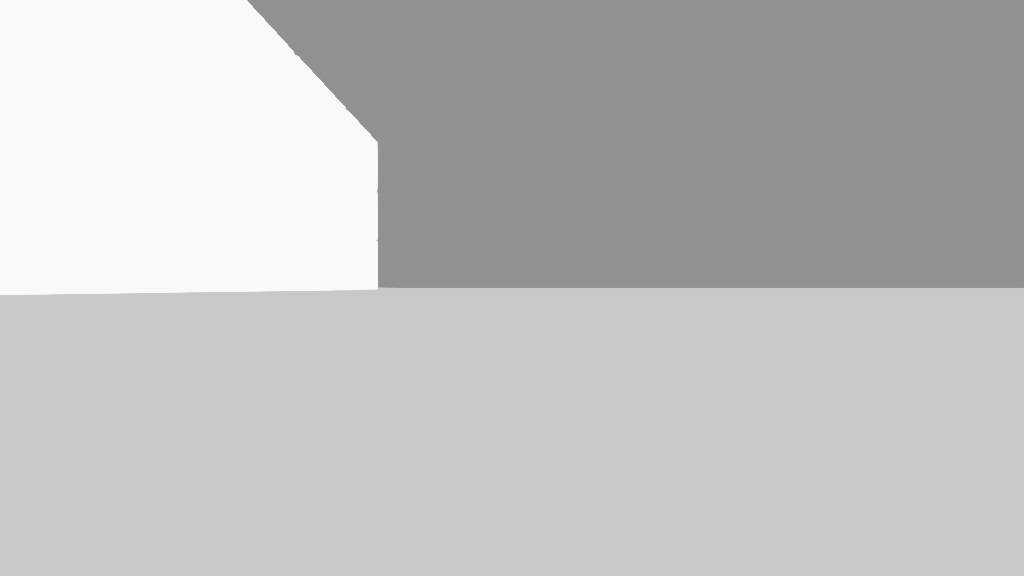
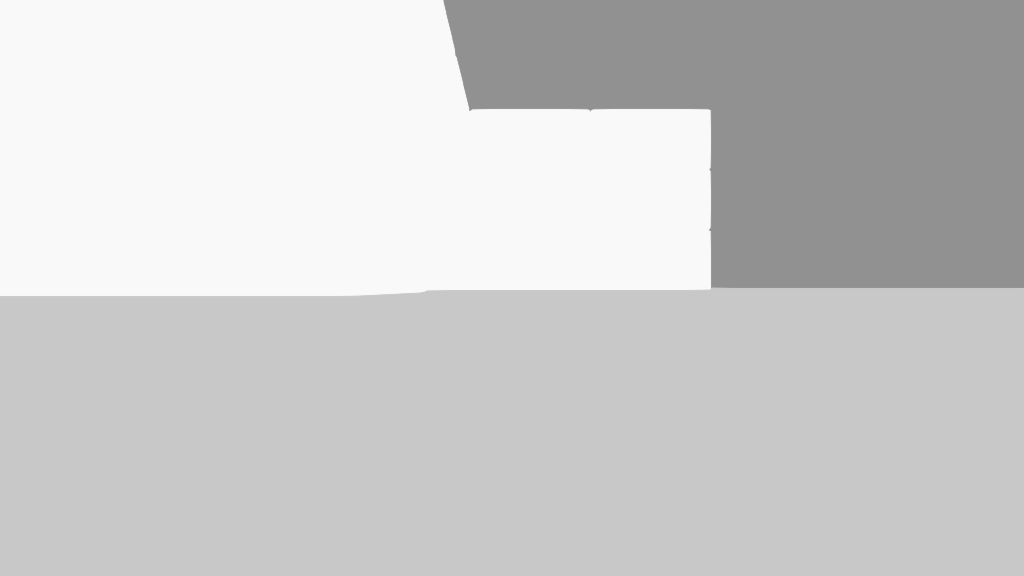
lilly arm day
lilly lifting

Changed region(s): [[0.0625, 0.0, 0.7188, 0.5312]]

diff --git a/testing scripts and examples/search_integration.py b/testing scripts and examples/search_integration.py
@@ -14,15 +14,15 @@ client.enableApiControl(True)
 client.armDisarm(True)
 client.takeoffAsync().join()
 
-waypoint_altitude = -20            # Fixed altitude (negative for AirSim)
-waypoint_side_length = 30          # Square size
-waypoint_speed = 20                # Speed (m/s)
+waypoint_altitude = -15            # Fixed altitude (negative for AirSim)
+waypoint_side_length = 10          # Square size
+waypoint_speed = 10                # Speed (m/s)
 
 confirm_target_altitude = -10      # Fixed altitude (negative for AirSim)
 confirm_target_side_length = 10    # Square size
 confirm_target_speed = 8           # Speed (m/s)
 
-drone = "1"                        # Drone
+drone = "0"                        # Drone
 
 imgDir = os.path.join(os.path.dirname(os.path.abspath(__file__)), 'images')
 
@@ -34,19 +34,26 @@ def take_forward_picture(drone_name, image_type):
     print(f"Taking picture from {camera_name}")
     response = client.simGetImage(camera_name=camera_name, image_type=image_type, vehicle_name=drone_name)
     
+    
+    
     filename = os.path.join("images", f"{camera_name}_scene_{image_type}")
 
     img1d = np.frombuffer(response, dtype=np.uint8)
     img_rgb = cv2.imdecode(img1d, cv2.IMREAD_COLOR)
 
     cv2.imwrite(os.path.normpath(filename + '.png'), img_rgb) # write to png
+    return response
 
-def waypoint_search(client, center_x, center_y, side_length, altitude, speed):
+def waypoint_search(client, center_x, center_y, side_length, waypoint_altitude, waypoint_speed):
     global running
 
     half_side = side_length / 2  
-
+    state = client.getMultirotorState()
+    q = state.kinematics_estimated.orientation
+    roll , pitch, yaw = to_eularian_angles(q)
+    curyaw=yaw
     # Waypoints for target to be centered
+    
     square_corners = [
         (center_x - half_side, center_y - half_side),  # Bottom-left
         (center_x + half_side, center_y - half_side),  # Bottom-right
@@ -56,22 +63,17 @@ def waypoint_search(client, center_x, center_y, side_length, altitude, speed):
 
     for x, y in square_corners: 
         client.moveToPositionAsync(
-            x, y, altitude, speed,
+            x, y, waypoint_altitude, waypoint_speed,
             drivetrain=airsim.DrivetrainType.ForwardOnly,
             yaw_mode=airsim.YawMode(is_rate=False, yaw_or_rate=0)  
         ).join()
-
-        # Delay for stabilization
         time.sleep(3)
-
-        target_position = detect_brian() 
-        if target_position:
-            # Yaw, pitch, and roll
-            yaw_angle, pitch, roll = get_yaw_angle_to_target(client, target_position)
-            client.rotateToYawAsync(yaw_angle).join() 
-            client.moveByVelocityZAsync(0, 0, altitude, 1) 
-
-        take_forward_picture(drone, airsim.ImageType.Infrared)
+        client.rotateToYawAsync(curyaw+45).join()
+       # take_forward_picture(drone, airsim.ImageType.Infrared)  ## FIX SEARCH
+        #take_forward_picture(drone, airsim.ImageType.Scene)  
+        print("going into calc")
+        calculateDistance_angle( take_forward_picture(drone, airsim.ImageType.Infrared))
+        
 
         # Stop key 
         if keyboard.is_pressed('q'):
@@ -124,6 +126,16 @@ def detect_brian():
         return response.position
     return None
 
+def create_waypoint():
+    state = client.getMultirotorState()
+    currentposition = state.kinematics_estimated.position
+    
+    client.moveToPositionAsync(currentposition.x_val,currentposition.y_val , currentposition.z_val-15 ,10, vehicle_name= drone).join()
+    client.moveToPositionAsync(currentposition.x_val+200,currentposition.y_val-12 , currentposition.z_val-15 ,20, vehicle_name= drone).join() 
+    currentposition = state.kinematics_estimated.position
+    return currentposition
+
+
 def get_yaw_angle_to_target(client, target_position):
     drone_state = client.getMultirotorState()
     drone_position = drone_state.kinematics_estimated.position
@@ -140,8 +152,167 @@ def get_yaw_angle_to_target(client, target_position):
 
     return yaw_deg, pitch, roll
 
+def MoveToGPSAsyncCollsion(self, latitude, longitude, altitude, velocity, timeout_sec = 3e+38,  vehicle_name = ''):
+    self.moveToGPSAsync(latitude,longitude,altitude,velocity,vehicle_name= vehicle_name)
+    t_end = time.time() + 30
+    while (time.time()<t_end): ## need a solution to this its just a bandaid rn 
+        if (self.getDistanceSensorData(distance_sensor_name='Distance').distance<5 or self.getDistanceSensorData(distance_sensor_name='Distance2').distance<5):
+            gpsData = self.getGpsData().gnss.geo_point
+        
+            self.moveToGPSAsync(gpsData.latitude,gpsData.latitude,gpsData.altitude+10,3).join()
+            self.moveToGPSAsync(latitude,longitude,altitude,velocity,vehicle_name= vehicle_name)
+            ##print("moving up")
+    self.hoverAsync
+
+def calculateDistance_angle(infared):
+    #client.hoverAsync()
+    #print("im here 1")
+    responses = client.simGetImages([airsim.ImageRequest("front-"+ drone, airsim.ImageType.DepthPerspective, True, False),airsim.ImageRequest("front_center", airsim.ImageType.Infrared,False,False)])
+    #TEST_response= client.simGetImage(camera_name="front_center", image_type= airsim.ImageType.Infrared, vehicle_name='0') ## throws a fit if i do them both in one call
+    depthPerspective = responses[0]
+
+    ##depth = responses[0]
+    print("im here 2")
+    
+    depth_img_in_meters = airsim.list_to_2d_float_array(depthPerspective.image_data_float, depthPerspective.width, depthPerspective.height) 
+    print("im here 3")
+
+    depth_img_in_meters = depth_img_in_meters.reshape(depthPerspective.height, depthPerspective.width, 1)
+    depth_8bit_lerped = np.interp(depth_img_in_meters, (0, 100), (0, 255))
+
+    ##print(responses[0].width) #256
+    ##print("width^^^^^")
+
+    
+   
+  
+    ##img = responses[1]
+    img = infared
+    print("im here 3")
+  
+
+   
+    img1d = np.frombuffer(img, dtype=np.uint8) ## breaking here rn 
+    img_rgb = cv2.imdecode(img1d, cv2.IMREAD_COLOR)
+    hsv = cv2.cvtColor(img_rgb,cv2.COLOR_BGR2HSV)
+    ##print("im here 5")
+
+    ##img.resize(256,144) ## width , height ## this is breaking after the changes/ cant do it / might need this when integrating everyones code
+
+
+    lower = np.array([0,0,0], dtype = "uint8")
+    upper = np.array([192,192,192], dtype = "uint8")
+
+
+    mask = cv2.inRange(hsv, lower, upper)
+    #print("im here 6")
+    cv2.imshow("Mask",mask)
+    #cv2.imshow("img",img1d)
+    cv2.waitKey(0)
+    ##mask.resize(256,288)
+    
+    
+    
+    ##print("im here 7")
+
+    height= client.getDistanceSensorData(distance_sensor_name='Distance').distance
+    ##print("im here 3")
+
+    
+    
+    perpixel = 90/256 ## might  be wrong there is a lot of things to check but in theroy if everything is right it works #half of the big angle 
+    # try:
+    horizontal = np.argwhere(mask)[5][1] ## if its not working this 0 is a 1 # need error handling here if there is nothing
+    # except:
+    #     print("finally")
+    #     exit
+    
+    
+    if(horizontal >= (256/2)):
+        #print("right")
+        clockwise = True
+    elif(horizontal<(256/2)):
+        #print("left")
+        clockwise = False   
+    vert = np.argwhere(mask)[5][0]
+    distance = depth_img_in_meters[vert][horizontal][0] ## could be back wards
+    #print(horizontal)
+    #print("horizontal ^^^")
+    #print(vert)
+    #print("vert ^^^^")
+    ##print(height)
+    calculations = math.sqrt(distance**2 - height**2) ## need a catch for this i think 
+    horizontalangle = perpixel * horizontal
+    #time.sleep(30)
+    print(horizontalangle , calculations , clockwise)
+    return horizontalangle , calculations , clockwise
+    ##return "test"
+
+def to_eularian_angles(q):
+    z = q.z_val
+    y = q.y_val
+    x = q.x_val
+    w = q.w_val
+    ysqr = y * y
+
+    # roll (x-axis rotation)
+    t0 = +2.0 * (w * x + y * z)
+    t1 = +1.0 - 2.0 * (x * x + ysqr)
+    roll = math.atan2(t0, t1)
+
+    # pitch (y-axis rotation)
+    t2 = +2.0 * (w * y - z * x)
+    t2 = max(min(t2, 1.0), -1.0)  # Clamp t2 to the range [-1, 1]
+    pitch = math.asin(t2)
+
+    # yaw (z-axis rotation)
+    t3 = +2.0 * (w * z + x * y)
+    t4 = +1.0 - 2.0 * (ysqr + z * z)
+    yaw = math.atan2(t3, t4)
+
+    yaw = yaw * (180/ math.pi)
+
+    return (roll, pitch, yaw)  # Standard order: roll, pitch, yaw
+
+def CordCalulcation(angle, distance,clockwise):
+    ## bearing = client. get its angle from north
+    
+    state = client.getMultirotorState()
+    q = state.kinematics_estimated.orientation
+    roll , pitch, yaw = to_eularian_angles(q)
+    #print(yaw)
+    #print("yaw^^^")
+    if (clockwise == True):
+        yaw = yaw + angle
+    elif(clockwise == False):
+        yaw = yaw - angle
+    
+    
+    print(yaw)
+    currentposition = state.kinematics_estimated.position
+    if(yaw >0  and yaw <= 90 ):
+       # print("quad 1")
+        newY= currentposition.y_val + math.sin(math.radians(angle)) * distance
+        newX= currentposition.x_val + (math.cos(math.radians(angle)) * distance )
+    elif(yaw >90  and yaw <= 180):
+       # print("quad 2")
+        newY= currentposition.y_val +math.sin(math.radians(angle)) * distance
+        newX= currentposition.x_val - (math.cos(math.radians(angle)) * distance )
+    elif(yaw >-180  and yaw <= -90):
+        #print("quad 3")
+        newY= currentposition.y_val -math.sin(math.radians(angle)) * distance
+        newX= currentposition.x_val - (math.cos(math.radians(angle)) * distance )
+    elif(yaw >-90  and yaw <= 0):
+        #print("quad 4")
+        newY= currentposition.y_val -math.sin(math.radians(angle)) * distance
+        newX= currentposition.x_val + (math.cos(math.radians(angle)) * distance )
+   
+    
+    return newX,newY, currentposition.z_val
+
+
 try:
-    brian_position = detect_brian()
+    #brian_position = detect_brian()
     
     # if brian_position:
     #     center_x, center_y = brian_position.x_val, brian_position.y_val
@@ -156,6 +327,11 @@ try:
     # - use jacksons code to go 
     # - run confirm target search
     # if there is nothing go to next waypoint and rerun waypoint search
+
+    create_waypoint()
+    time.sleep(3)
+    waypoint_search(client, 200, -12, waypoint_side_length, waypoint_altitude, waypoint_speed) # 200 , -12 bryans pos
+
 
 finally:
     # Land the drone safely
@@ -173,3 +349,4 @@ finally:
     # Disable API control
     client.enableApiControl(False)
     print("Flight operation completed.")
+
